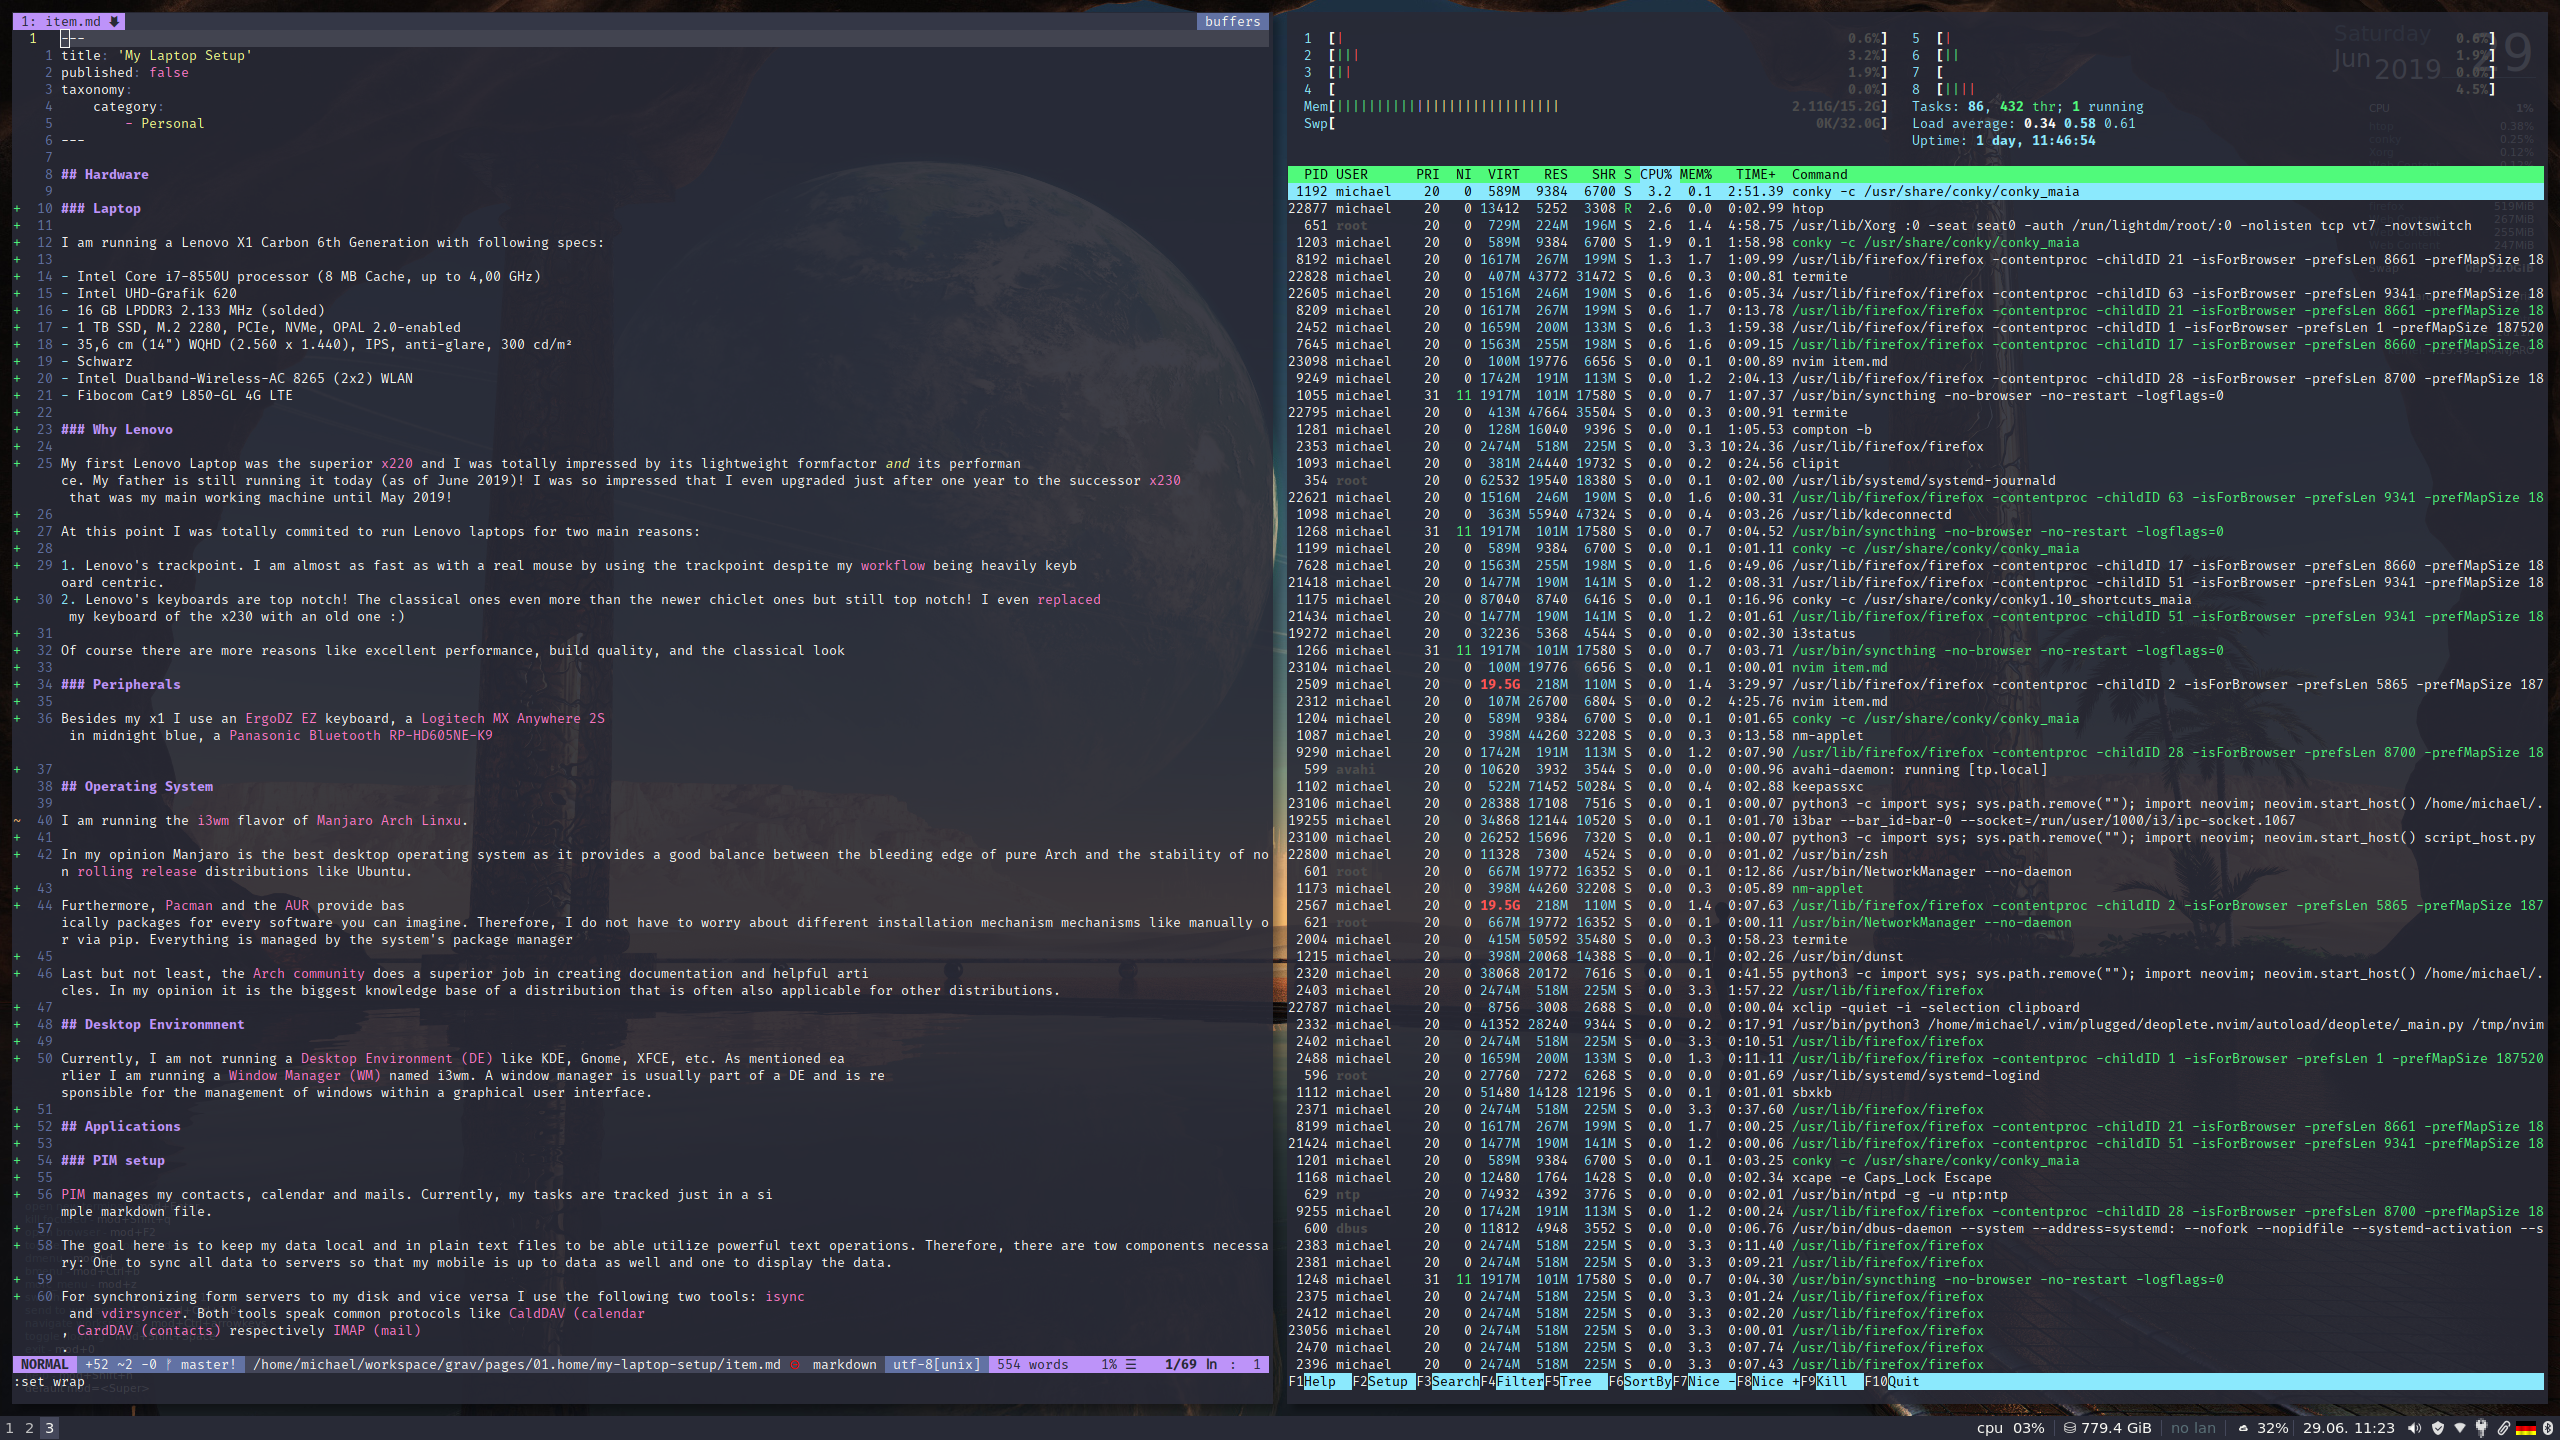
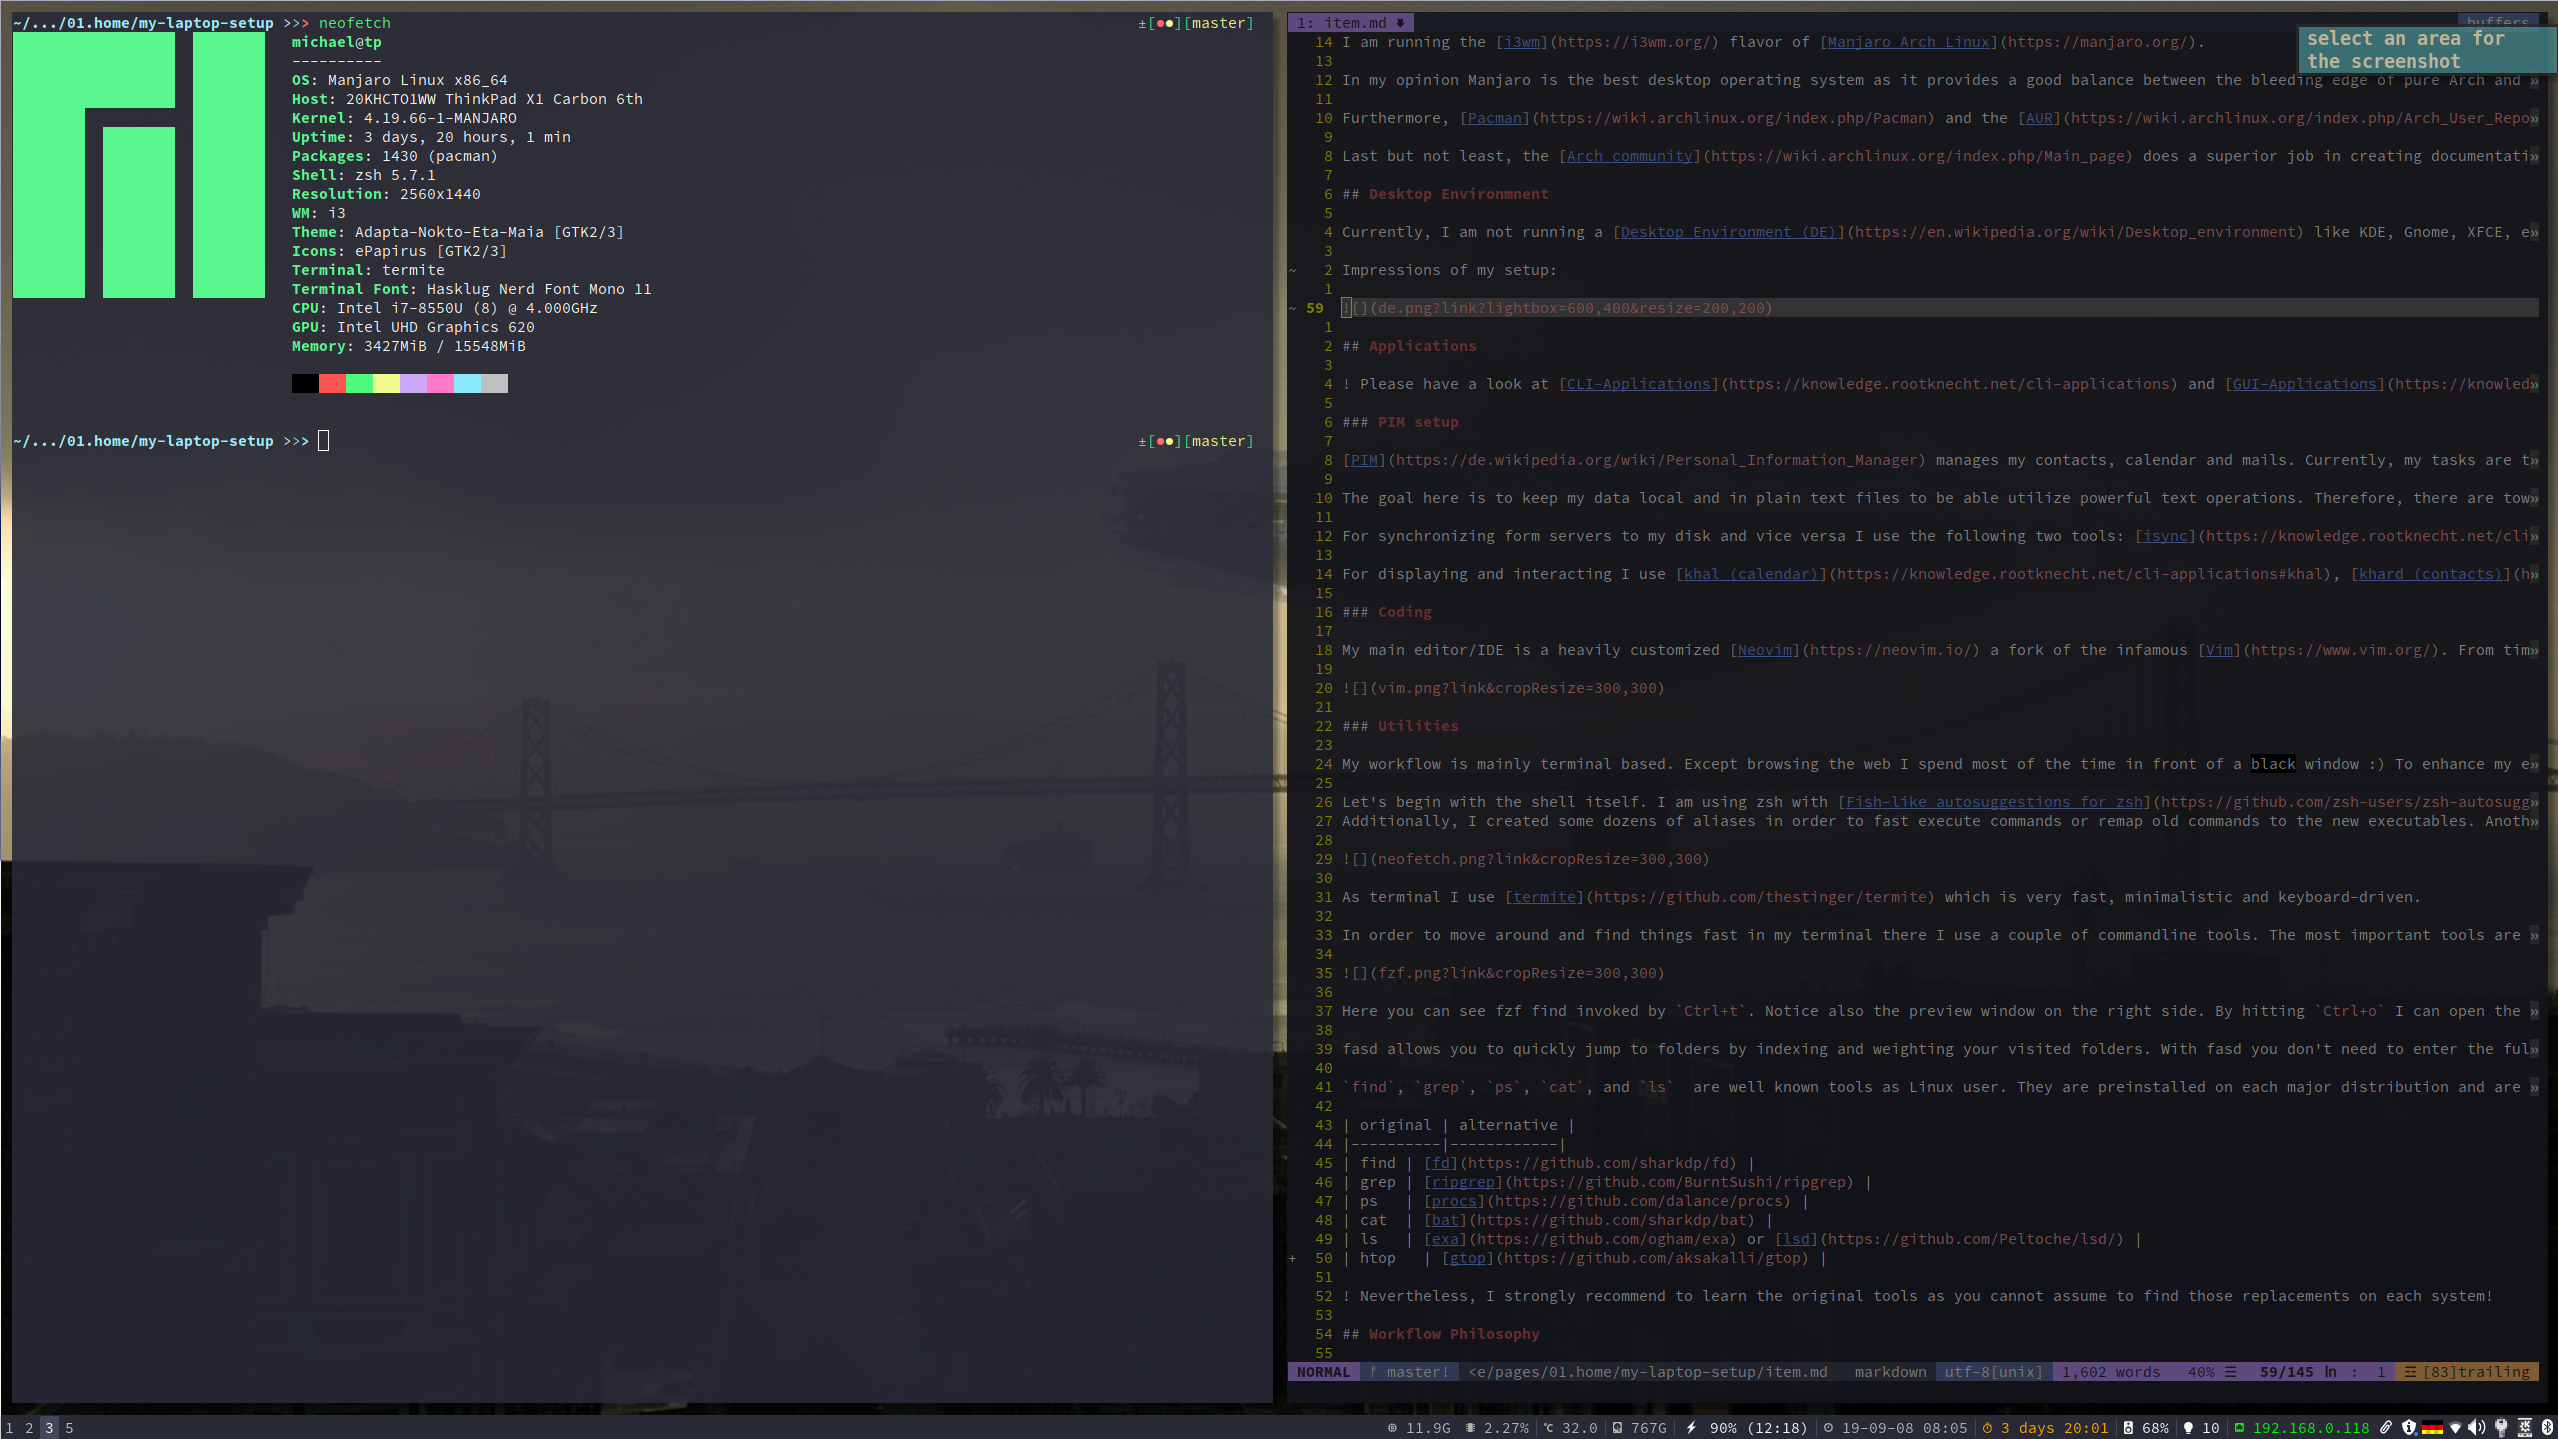
Update laptop setup

diff --git a/pages/01.home/my-laptop-setup/item.md b/pages/01.home/my-laptop-setup/item.md
@@ -54,9 +54,11 @@ Last but not least, the [Arch community](https://wiki.archlinux.org/index.php/Ma
 
 Currently, I am not running a [Desktop Environment (DE)](https://en.wikipedia.org/wiki/Desktop_environment) like KDE, Gnome, XFCE, etc. As mentioned earlier I am running a [Window Manager (WM)](https://en.wikipedia.org/wiki/Window_manager) named i3wm. A window manager is usually part of a DE and is responsible for the management of windows within a graphical user interface.
 
-An impression of my setup:
+Impressions of my setup:
 
-![](de.png?link&cropResize=300,300)
+![](desktop.png?link?lightbox=600,400&resize=200,200)
+![](de.png?link?lightbox=600,400&resize=200,200)
+![](gtop.png?link?lightbox=600,400&resize=200,200)
 
 ## Applications
 
@@ -106,6 +108,7 @@ fasd allows you to quickly jump to folders by indexing and weighting your visite
 | ps   | [procs](https://github.com/dalance/procs) |
 | cat  | [bat](https://github.com/sharkdp/bat) |
 | ls   | [exa](https://github.com/ogham/exa) or [lsd](https://github.com/Peltoche/lsd/) |
+| htop   | [gtop](https://github.com/aksakalli/gtop) |
 
 ! Nevertheless, I strongly recommend to learn the original tools as you cannot assume to find those replacements on each system!
 
